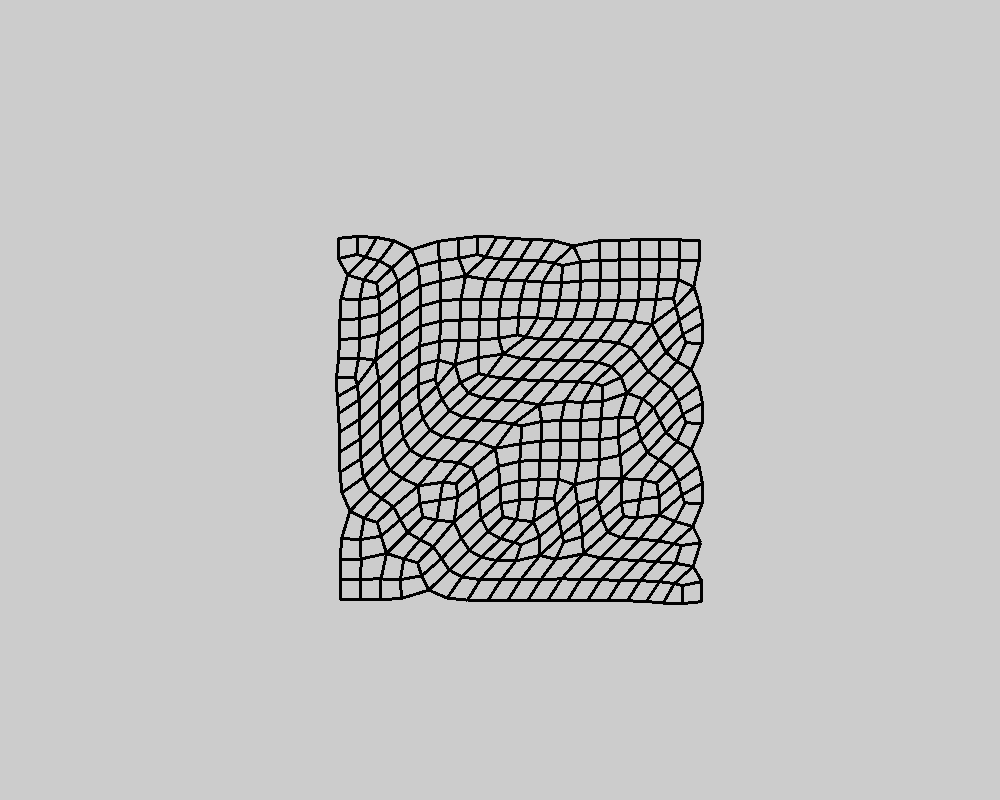
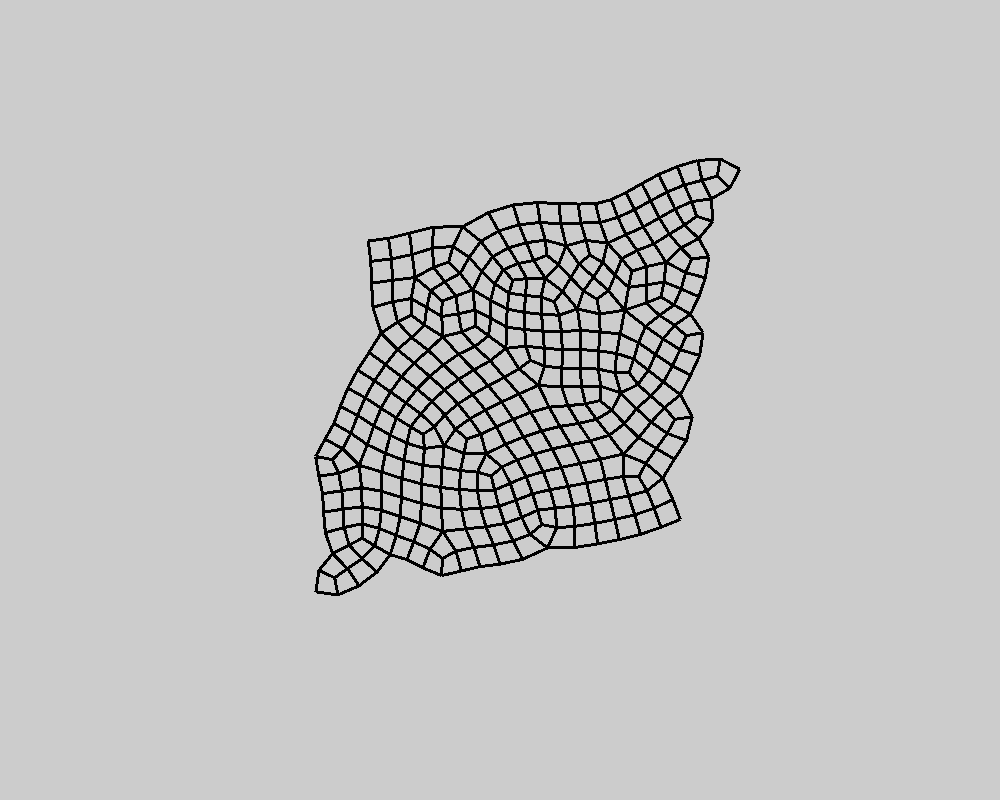
update

Changed region(s): [[0.31, 0.1875, 0.744, 0.7812]]

diff --git a/src/main/java/com/backinfile/map/manager/RelaxManager.java b/src/main/java/com/backinfile/map/manager/RelaxManager.java
@@ -5,18 +5,18 @@ import java.util.HashMap;
 import java.util.List;
 import java.util.Map;
 
+import com.backinfile.map.Log;
 import com.backinfile.map.model.Point;
 import com.backinfile.map.model.Rectangle;
 import com.backinfile.map.model.Shape;
 import com.backinfile.support.Timing;
 
-import javassist.bytecode.CodeIterator.Gap;
-
 public class RelaxManager {
 	private Map<Point, Point> pointMovements = new HashMap<>();
 
 	@Timing
-	public void relax(List<Shape> shapes, float rate) {
+	public double relax(List<Shape> shapes, float rate) {
+		double loss = 0;
 		pointMovements.clear();
 		for (var shape : shapes) {
 			if (!(shape instanceof Rectangle)) {
@@ -34,22 +34,25 @@ public class RelaxManager {
 		for (var entry : pointMovements.entrySet()) {
 			var p = entry.getKey();
 			var m = entry.getValue();
-			p.translate(m.mul(rate));
+			var finalMove = m.mul(rate);
+			p.translate(finalMove);
+			loss += finalMove.getVectorLengthPow();
 		}
 
+		Log.game.info("relax rate={} loss={}", rate, loss);
+		return loss;
 	}
-
-	private static final int[] DX = new int[] { 1, 1, -1, -1 };
-	private static final int[] DY = new int[] { 1, -1, 1, -1 };
 
 	private List<Point> getCornerPoints(Rectangle rectangle) {
 		List<Point> result = new ArrayList<>();
 		var center = rectangle.getCenter();
-		var suggestGap = (float) (GenManager.Gap / 2 * Math.cos(Math.PI / 4));
+		var suggestGap = GenManager.Gap / 2 * Math.cos(Math.PI / 4);
 		for (int i = 0; i < 4; i++) {
-			var p = rectangle.getPoints().get(i);
-			var distance = (float) p.getDistance(center);
-			result.add(center.add(p.sub(center).mul(suggestGap / distance)));
+			var p1 = rectangle.getPoints().get((i + 4 - 1) % 4);
+			var p2 = rectangle.getPoints().get((i + 4 + 0) % 4);
+			var p3 = rectangle.getPoints().get((i + 4 + 1) % 4);
+			var target = p3.sub(p1).roate90().unit().mul(suggestGap).add(center);
+			result.add(target);
 		}
 		return result;
 	}

diff --git a/src/main/java/com/backinfile/map/model/Rectangle.java b/src/main/java/com/backinfile/map/model/Rectangle.java
@@ -2,9 +2,7 @@ package com.backinfile.map.model;
 
 import java.util.ArrayList;
 import java.util.Collection;
-import java.util.Collections;
 import java.util.HashMap;
-import java.util.List;
 import java.util.Map;
 
 import com.backinfile.map.SysException;
@@ -22,9 +20,11 @@ public class Rectangle extends Shape {
 		if (points.size() != 4) {
 			throw new SysException("error in Rectangle create");
 		}
+		reorder();
 	}
 
 	// 调整顶点顺序, 只适用于凸四边形
+	// 顶点顺时针排序
 	public void reorder() {
 		var array = new ArrayList<>(this.points);
 		for (var p1 : array) {
@@ -33,7 +33,7 @@ public class Rectangle extends Shape {
 					var p3 = array.stream().filter(p -> p != p1 && p != p2).findAny().get();
 					var p4 = array.stream().filter(p -> p != p1 && p != p2 && p != p3).findAny().get();
 					// 如果其余两点分布在线端两侧，
-					if (Utils.calcArea(p1, p2, p3) * Utils.calcArea(p1, p2, p4) < 0) {
+					if (Utils.calcArea(p1, p2, p3) > 0 && Utils.calcArea(p1, p2, p4) < 0) {
 						this.points.clear();
 						this.points.add(p1);
 						this.points.add(p3);

diff --git a/src/main/java/com/backinfile/map/stage/GameStage.java b/src/main/java/com/backinfile/map/stage/GameStage.java
@@ -3,7 +3,6 @@ package com.backinfile.map.stage;
 import java.util.ArrayList;
 import java.util.List;
 
-import com.backinfile.map.Log;
 import com.backinfile.map.Settings;
 import com.backinfile.map.manager.GameManager;
 import com.backinfile.map.manager.GenManager;
@@ -24,6 +23,7 @@ public class GameStage extends Stage {
 	private ShapeRenderer renderer;
 	private List<Shape> shapes;
 	private TimerQueue timerQueue;
+	private long relaxTimerId;
 
 	public GameStage(Viewport viewport) {
 		super(viewport);
@@ -35,12 +35,12 @@ public class GameStage extends Stage {
 
 		RelaxManager relaxManager = new RelaxManager();
 
-		timerQueue.applyTimer(Time2.SEC / 3, Time2.SEC, () -> {
-			relaxManager.relax(shapes, 0.1f);
-		});
-
-		timerQueue.applyTimer(Time2.SEC * 5, () -> {
-			GameManager.takeScreenshot();
+		relaxTimerId = timerQueue.applyTimer(Time2.SEC / 30, Time2.SEC, () -> {
+			var loss = relaxManager.relax(shapes, 0.1f);
+			if (loss < 0.3f) {
+				GameManager.takeScreenshot();
+				timerQueue.removeTimer(relaxTimerId);
+			}
 		});
 	}
 

diff --git a/src/main/java/com/backinfile/map/model/Point.java b/src/main/java/com/backinfile/map/model/Point.java
@@ -44,6 +44,10 @@ public class Point {
 		return Math.sqrt(Math.pow(p.x - x, 2) + Math.pow(p.y - y, 2));
 	}
 
+	public float getVectorLengthPow() {
+		return this.x * this.x + this.y * this.y;
+	}
+
 	public Point getTranslated(float dx, float dy) {
 		return new Point(this.x + dx, this.y + dy);
 	}
@@ -53,8 +57,19 @@ public class Point {
 		this.y += point.y;
 	}
 
-	public Point mul(float value) {
-		return new Point(this.x * value, this.y * value);
+	// 单位化
+	public Point unit() {
+		var sqrt = Math.sqrt(x * x + y * y);
+		return this.mul(1 / sqrt);
+	}
+
+	public Point mul(double value) {
+		return new Point((float) (this.x * value), (float) (this.y * value));
+	}
+
+	// 逆时针旋转90度
+	public Point roate90() {
+		return new Point(-y, x);
 	}
 
 	public Point sub(Point p) {

diff --git a/src/main/java/com/backinfile/map/manager/GameManager.java b/src/main/java/com/backinfile/map/manager/GameManager.java
@@ -1,5 +1,7 @@
 package com.backinfile.map.manager;
 
+import java.util.zip.Deflater;
+
 import com.backinfile.support.Timing;
 import com.badlogic.gdx.Gdx;
 import com.badlogic.gdx.graphics.PixmapIO;
@@ -10,6 +12,6 @@ public class GameManager {
 	@Timing
 	public static void takeScreenshot() {
 		var pixmap = ScreenUtils.getFrameBufferPixmap(0, 0, Gdx.graphics.getWidth(), Gdx.graphics.getHeight());
-		PixmapIO.writePNG(Gdx.files.local("output/output.png"), pixmap);
+		PixmapIO.writePNG(Gdx.files.local("output/output.png"), pixmap, Deflater.DEFAULT_COMPRESSION, true);
 	}
 }

diff --git a/src/main/java/com/backinfile/support/Utils.java b/src/main/java/com/backinfile/support/Utils.java
@@ -123,6 +123,7 @@ public class Utils {
 	}
 
 	// S=(1/2)*(x1y2+x2y3+x3y1-x1y3-x2y1-x3y2)
+	// 右手法则：大于0逆时针，小于0顺时针
 	public static float calcArea(Point p1, Point p2, Point p3) {
 		return (p1.getX() * p2.getY() + p2.getX() * p3.getY() + p3.getX() * p1.getY() - p1.getX() * p3.getY()
 				- p2.getX() * p1.getY() - p3.getX() * p2.getY()) / 2f;

diff --git a/src/main/java/com/backinfile/map/manager/GenManager.java b/src/main/java/com/backinfile/map/manager/GenManager.java
@@ -80,7 +80,6 @@ public class GenManager {
 		points.addAll(t1.getPoints());
 		points.addAll(t2.getPoints());
 		Rectangle rectangle = new Rectangle(points);
-		rectangle.reorder();
 //		Log.game.info("merge {} {}", t1, t2);
 		return rectangle;
 	}
